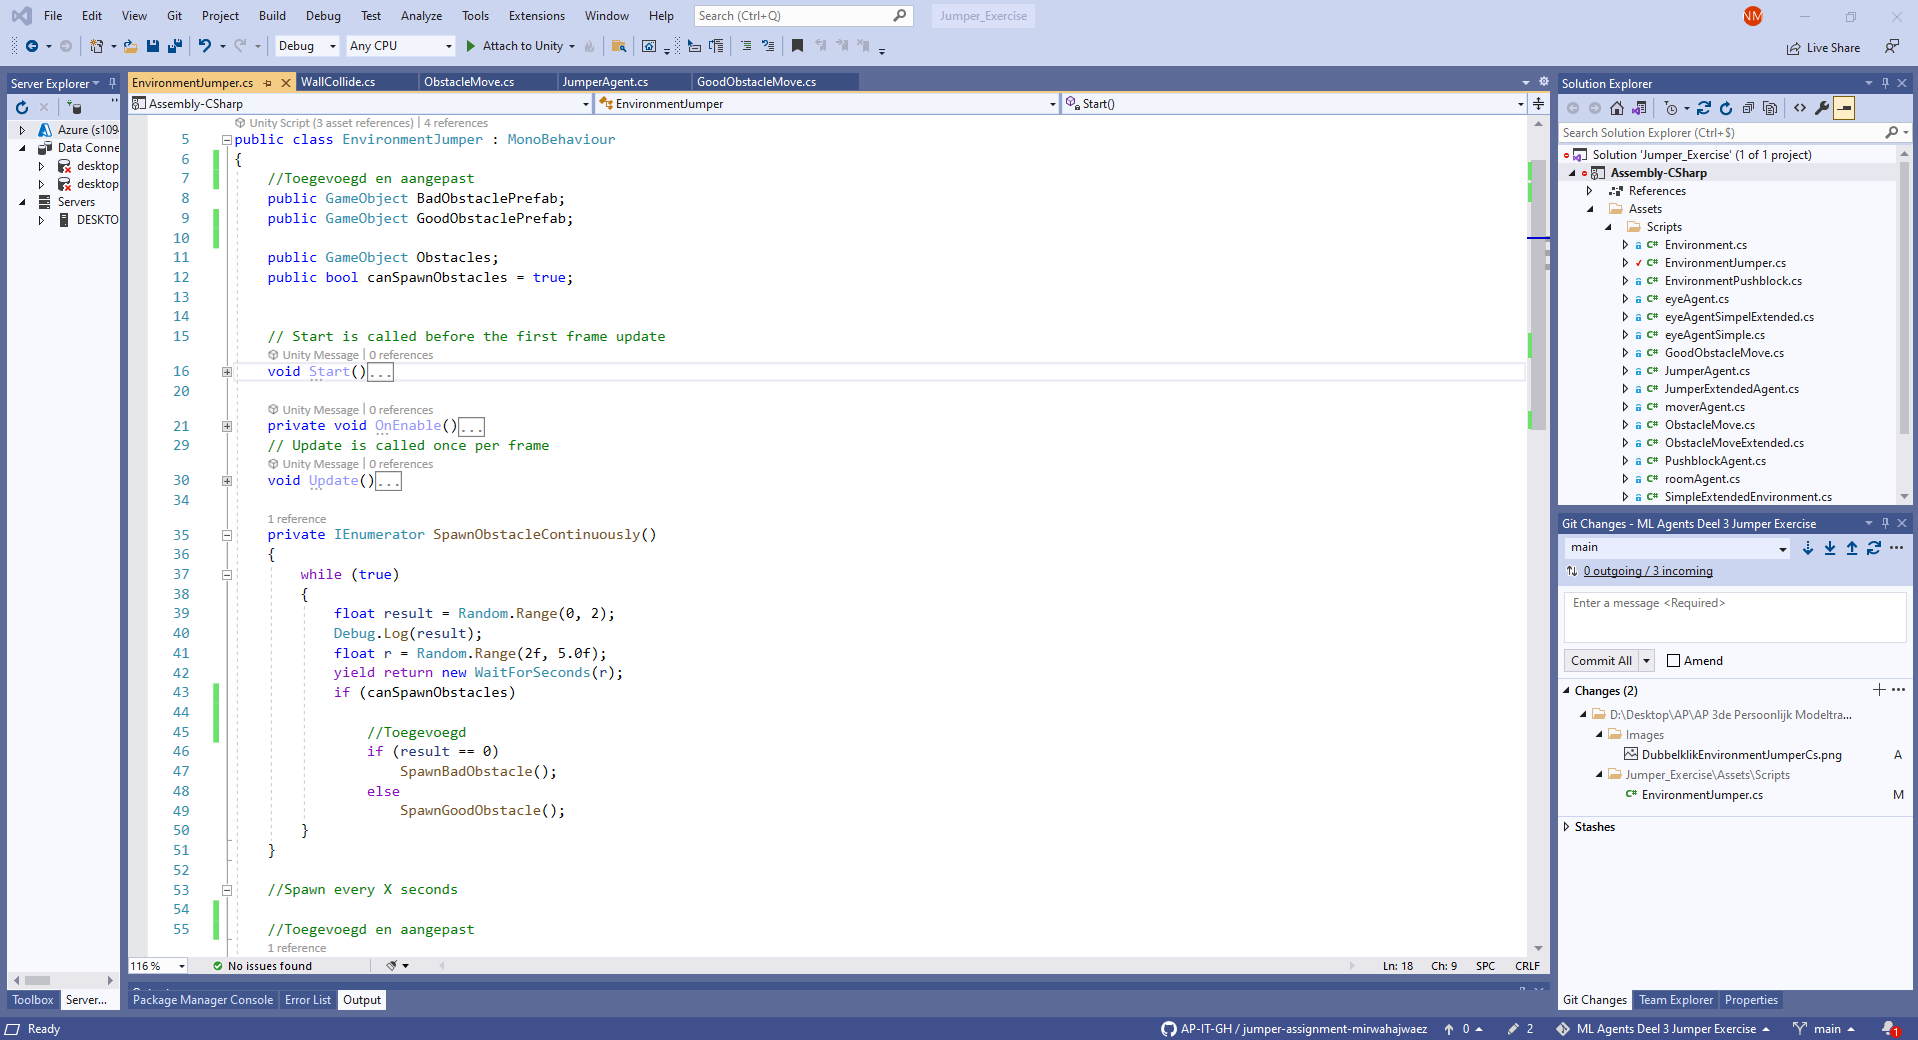
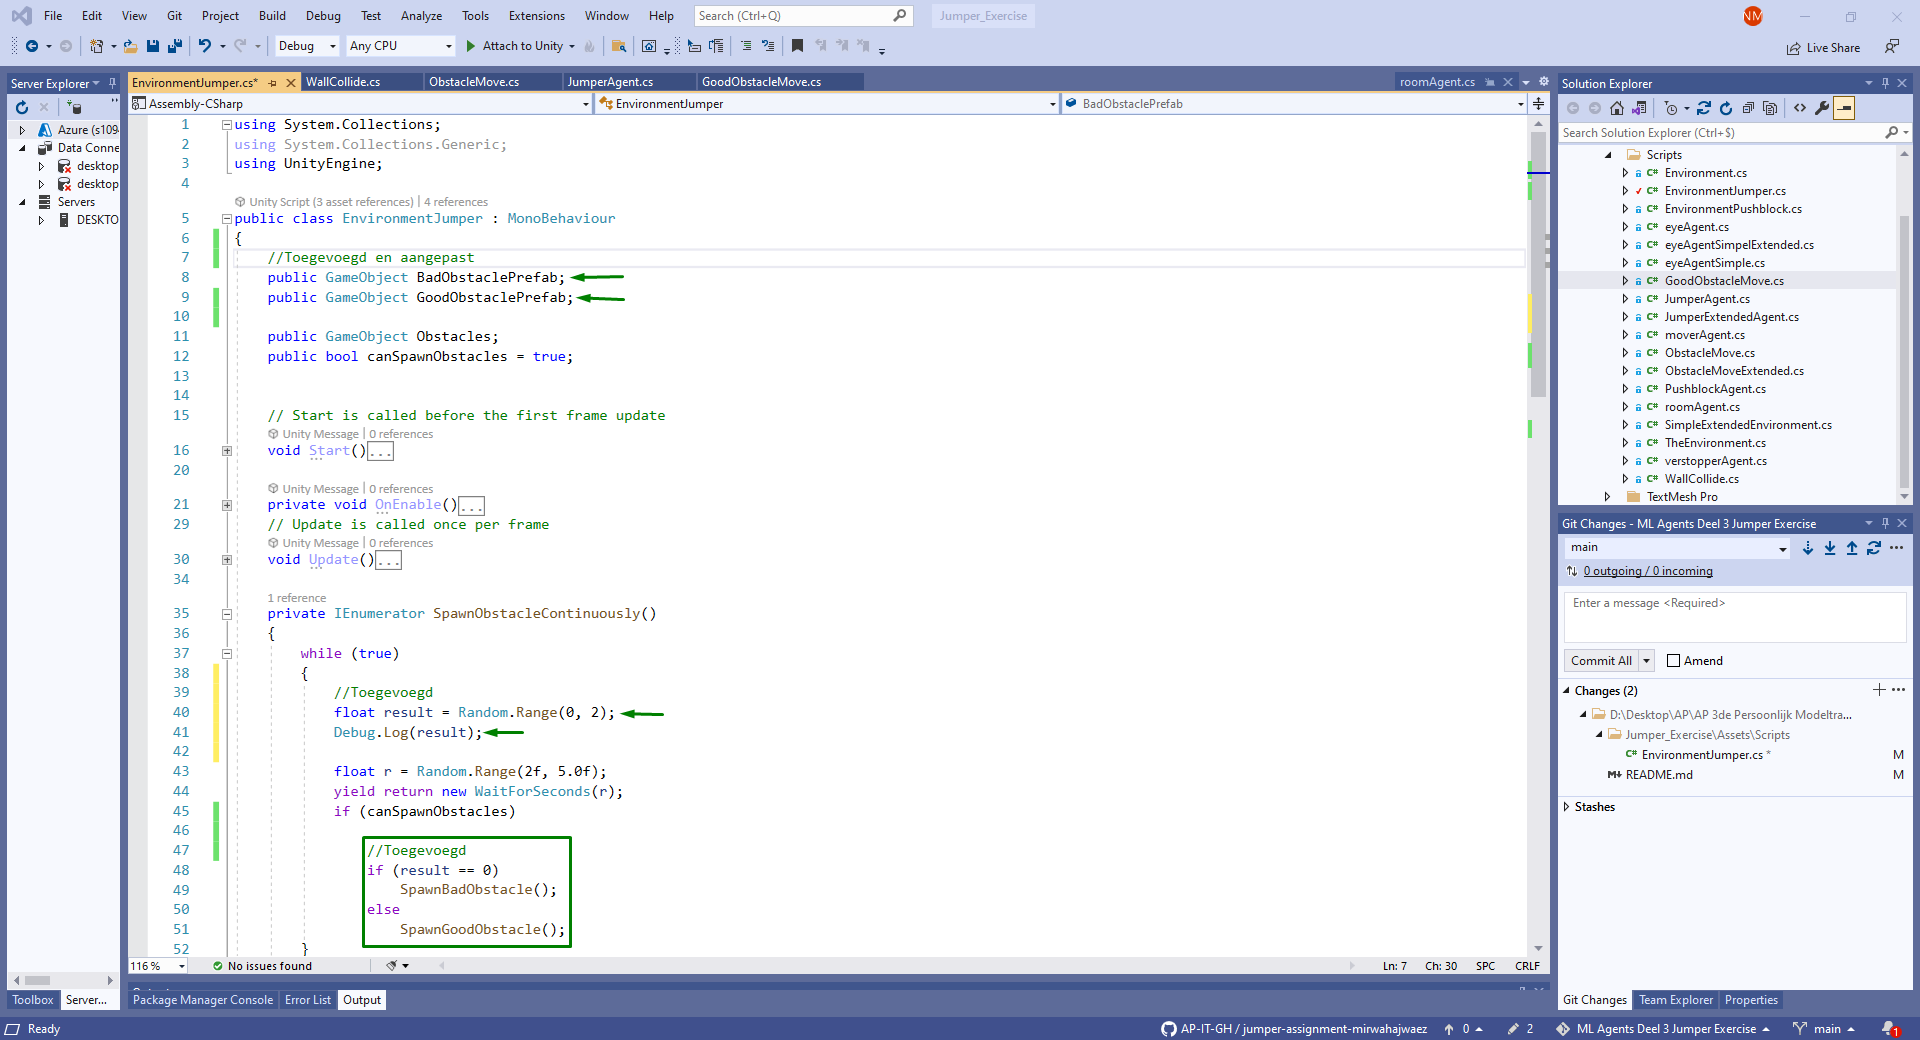
Update README.md Scripts

diff --git a/Jumper_Exercise/Assets/Scripts/ObstacleMove.cs b/Jumper_Exercise/Assets/Scripts/ObstacleMove.cs
@@ -5,11 +5,8 @@ using UnityEngine;
 
 public class ObstacleMove : MonoBehaviour
 {
-
     [SerializeField]
     private float speed = 4f;
-
-    
 
     private JumperAgent agent;
     // Start is called before the first frame update
@@ -26,20 +23,17 @@ public class ObstacleMove : MonoBehaviour
     // Update is called once per frame
     void Update()
     {
-        
         transform.localPosition += new Vector3(speed * Time.deltaTime, 0, 0);
     }
 
     private void OnCollisionEnter(Collision collision)
     {      
-            if (collision.transform.CompareTag("Wall"))
-            {
-               // Debug.Log("raak");
-                agent.AddReward(1f);
-                Destroy(this.gameObject);
-               // agent.EndEpisode();
+        if (collision.transform.CompareTag("Wall"))
+        {
+            // Debug.Log("raak");
+            agent.AddReward(1f);
+            Destroy(this.gameObject);
+            // agent.EndEpisode();
         }
-            
-       
     }
 }

diff --git a/Jumper_Exercise/Assets/Scripts/GoodObstacleMove.cs b/Jumper_Exercise/Assets/Scripts/GoodObstacleMove.cs
@@ -5,11 +5,8 @@ using UnityEngine;
 
 public class GoodObstacleMove : MonoBehaviour
 {
-
     [SerializeField]
     private float speed = 4f;
-
-    
 
     private JumperAgent agent;
     // Start is called before the first frame update
@@ -26,7 +23,6 @@ public class GoodObstacleMove : MonoBehaviour
     // Update is called once per frame
     void Update()
     {
-        
         transform.localPosition += new Vector3(speed * Time.deltaTime, 0, 0);
     }
 
@@ -39,7 +35,5 @@ public class GoodObstacleMove : MonoBehaviour
             Destroy(this.gameObject);
             // agent.EndEpisode();
         }
-            
-       
     }
 }

diff --git a/Jumper_Exercise/Assets/Scripts/EnvironmentJumper.cs b/Jumper_Exercise/Assets/Scripts/EnvironmentJumper.cs
@@ -36,8 +36,10 @@ public class EnvironmentJumper : MonoBehaviour
     {
         while (true)
         {
-            float result = Random.Range(0, 2);
+            //Toegevoegd
+            float result = Random.Range(0, 2); 
             Debug.Log(result);
+
             float r = Random.Range(2f, 5.0f);
             yield return new WaitForSeconds(r);
             if (canSpawnObstacles)

diff --git a/README.md b/README.md
@@ -15,7 +15,7 @@
 Om de opdracht tot een goed einde te brengen dien je eerst de volgende github repository te downloaden: 
 https://github.com/tomptrs/MLAgents-Klas-Voorbeeld/tree/master
 
-## Unity Project
+## Unity Project Opstellen
 
 ### Stap 1
 
@@ -39,11 +39,45 @@ Daarna ga je in de hierarchie de environment game object veranderen naar "Jumper
 In de JumperEnvironment veranderen we de script "EnvironmentJumper.cs", dubbelklik op "EnvironmentJumper.cs" en open dat in Visual Studio
 ![](Screenshots/DubbelklikEnvironmentJumperCs.png)
 
+### Stap 2
+- Voeg 2 GameObjects velden toe genaamd "BadObstaclePrefab" en "GoodObstaclePrefab".
+- In de "private IEnumerator SpawnObstacleContinuously()" voeg je een float result met een Random range van 0 tot 2. Daarbij zet je een Debug.Log(result) aan toe om dit via de console te bekijken.
+- binen de if-statement van (canSpawnObstacles) verander je heel het structuur naar:
+```csharp
+if (result == 0)
+        SpawnBadObstacle();
+    else
+        SpawnGoodObstacle();
+```
 ![](Screenshots/EnvironmentJumper01.png)
+
+- Dupliceer deze methode "public void SpawnObstacle()" en verander de eerste naar "public void SpawnBadObstacle()" en de tweede naar "public void SpawnGoodObstacle()".
+- Verander ook de velden binnen deze functies naar de gepaste naam.
+
+![](Screenshots/EnvironmentJumper02.png)
+
+### Stap 3
+Ga naar de volgende Script ObstacleMove.cs en maak daar een kopie van (door op CRTL+C te drukken).
+- Hernoem ObstacleMove1.cs naar "ObstacleGoodMove.cs".
+- In "ObstacleGoodMove.cs" verander je de AddReward methode in "private void OnCollisionEnter(Collision collision)" naar -1f ipv. 1f.
 
 ![](Screenshots/ObstacleMove.png)
 
 ![](Screenshots/ObstacleGoodMove.png)
+
+### Stap 4
+Ga naar de volgende Script JumperAgent.cs.
+- Bij de methode "private void OnCollisionEnter(Collision collision)" kopieer en plak:
+```csharp
+if (collision.transform.CompareTag("Obstacle"))
+    {
+        Debug.Log("collide with obstacle");
+        Destroy(collision.gameObject);
+        AddReward(-1f);           
+    }
+```
+- En verander de CompareTag naar "GoodObstacle"
+- En de AddReward naar "1f"
 
 ![](Screenshots/JumperAgent.png)
 
